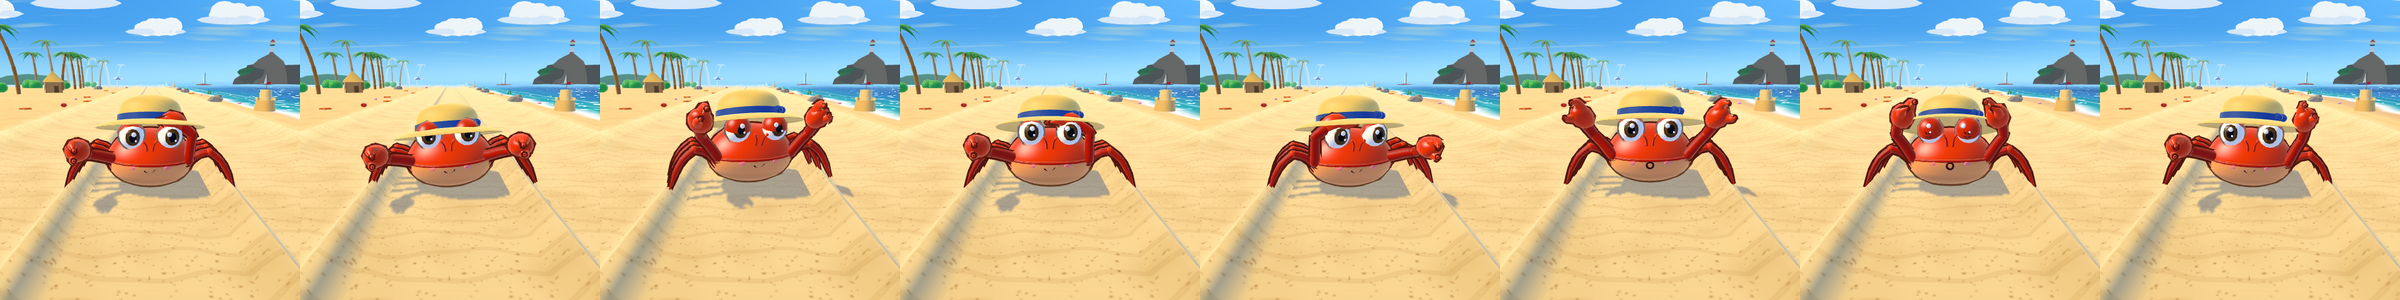
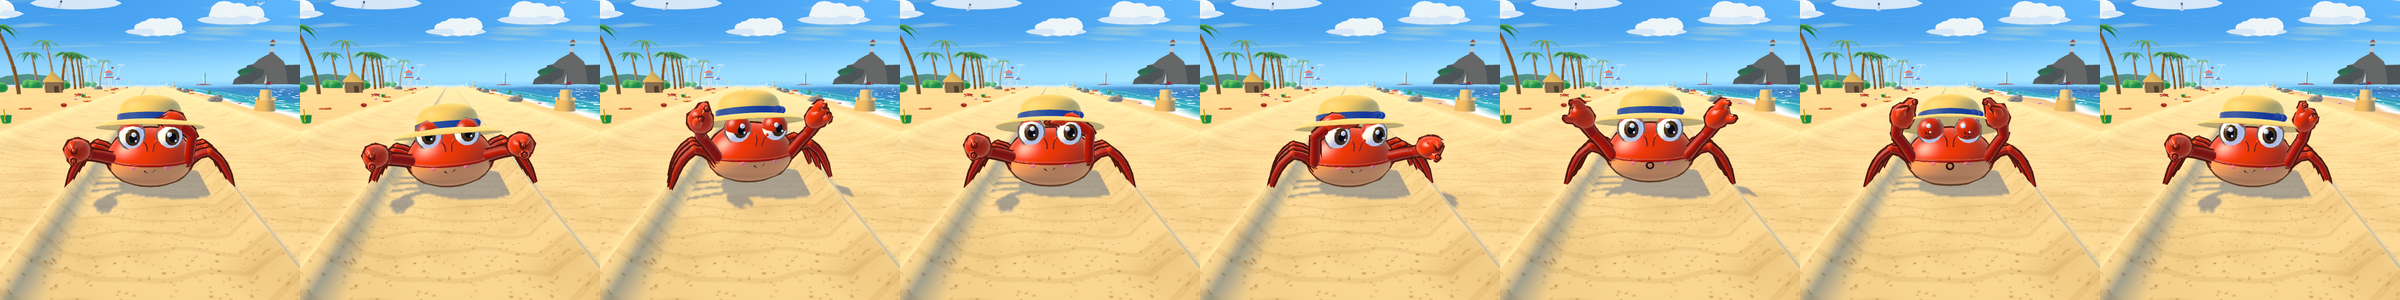
Update 2 Phase C (part 5): prop expansion
About 40% more props per zone: buckets and spades, surfboards and a
lifeguard tower on the shore; nets, benches and gulls perched on pilings
on the pier; crab burrows and starfish clusters in the cove; hammocks and
a flickering bonfire at sunset. Refreshed Phase C screenshots and strips.

Claude-Session: https://claude.ai/code/session_01NMoLfHsvJF6Y6a3sRupRr2

diff --git a/src/render/props.ts b/src/render/props.ts
@@ -455,3 +455,148 @@ export function lantern(col: number): THREE.BufferGeometry {
   b.sphere(col, 0.16, [0, 0, 0], [1, 1.2, 1], 8);
   return addWind(b.build(), () => 0.05);
 }
+
+// --------------------------------------------------------------- Update 2 prop expansion (§2.3)
+export function bucketSpade(col: number): THREE.BufferGeometry {
+  const b = new GeoBuilder();
+  b.lathe(col, [[0.16, 0], [0.22, 0.3], [0.2, 0.3], [0.14, 0.02], [0, 0.02]], 12);
+  b.torus(new THREE.Color(col).multiplyScalar(0.8).getHex(), 0.2, 0.02, [0, 0.28, 0], [Math.PI / 2, 0, 0], 12);
+  b.torus(0xf2f2f2, 0.19, 0.012, [0, 0.33, 0], [0, 0, 0], 10, [1, 1, 1]);
+  // spade stuck in the sand beside it
+  b.cyl(0xffc933, 0.025, 0.025, 0.55, [0.38, 0.32, 0.05], [0, 0, -0.25], 5);
+  b.box(0xffc933, 0.2, 0.22, 0.03, [0.32, 0.06, 0.05], [0, 0, -0.25]);
+  return b.build();
+}
+
+export function surfboards(): THREE.BufferGeometry {
+  const b = new GeoBuilder();
+  const cols = [0xff7a1a, 0x3fd6d0, 0xffd23a];
+  for (let i = 0; i < 3; i++) {
+    const c = cols[i] as number;
+    b.sphere(c, 0.32, [i * 0.42 - 0.42, 0.95, i * 0.08], [0.6, 3.2, 0.12], 10, [0.15 - i * 0.05, 0, (i - 1) * 0.12]).paint((x, y, z, cc) => {
+      if (Math.abs(x - (i * 0.42 - 0.42)) < 0.03) cc.set(0xffffff);
+    });
+  }
+  return b.build();
+}
+
+export function lifeguardTower(): THREE.BufferGeometry {
+  const b = new GeoBuilder();
+  const wood = 0xf4f0e6;
+  for (const x of [-0.8, 0.8]) for (const z of [-0.7, 0.7]) b.cyl(wood, 0.07, 0.08, 2.4, [x * 0.8, 1.2, z * 0.8], [z * 0.08, 0, -x * 0.08], 6);
+  b.box(0xe53935, 2.0, 0.12, 1.8, [0, 2.45, 0]);
+  b.box(0xfff4dc, 1.7, 1.0, 1.5, [0, 3.0, 0]);
+  b.box(0x8fd0f7, 1.2, 0.45, 0.04, [0, 3.15, 0.76]);
+  b.cone(0xe53935, 1.4, 0.6, [0, 3.8, 0], [0, Math.PI / 4, 0], 4);
+  // ladder + red cross flag
+  for (let i = 0; i < 6; i++) b.box(wood, 0.6, 0.05, 0.08, [0, 0.3 + i * 0.36, 1.25 - i * 0.07]);
+  b.cyl(0x8a8a90, 0.02, 0.02, 1.0, [0.8, 4.3, -0.6], [0, 0, 0], 4);
+  b.box(0xe53935, 0.5, 0.3, 0.02, [1.06, 4.65, -0.6]);
+  return addWind(b.build(), (x, y) => (y > 4.45 && x > 0.82 ? -0.04 : 0));
+}
+
+export function fishingNet(): THREE.BufferGeometry {
+  const b = new GeoBuilder();
+  // a net draped over a post rail with a few floats
+  for (let i = 0; i <= 6; i++) {
+    const x = -1 + i / 3;
+    b.tube(0x6f8a7a, [[x, 1.1, 0], [x + 0.05, 0.6, 0.06], [x, 0.1, 0.02]], 0.012, 3, 4, false);
+  }
+  for (let j = 0; j < 4; j++) {
+    const y = 1.05 - j * 0.28;
+    b.tube(0x6f8a7a, [[-1, y, 0.02], [0, y - 0.08, 0.07], [1, y, 0.02]], 0.012, 3, 6, false);
+  }
+  for (const x of [-0.7, 0.1, 0.8]) b.sphere(0xffc933, 0.07, [x, 1.12, 0.03], [1, 1, 1], 6);
+  return addWind(b.build(), (x, y) => (y < 0.9 ? -0.015 * (1 - y) : 0));
+}
+
+export function bench(): THREE.BufferGeometry {
+  const b = new GeoBuilder();
+  for (let i = 0; i < 3; i++) b.box(0xb98550, 1.8, 0.06, 0.14, [0, 0.48, -0.15 + i * 0.16]);
+  for (let i = 0; i < 2; i++) b.box(0xb98550, 1.8, 0.14, 0.05, [0, 0.75 + i * 0.18, -0.3]);
+  for (const x of [-0.75, 0.75]) {
+    b.box(0x2c3e66, 0.06, 0.48, 0.42, [x, 0.24, 0]);
+    b.box(0x2c3e66, 0.06, 0.5, 0.05, [x, 0.75, -0.3]);
+  }
+  return b.build();
+}
+
+export function postGull(): THREE.BufferGeometry {
+  const b = new GeoBuilder();
+  b.cyl(0x8a5a2b, 0.13, 0.14, 1.4, [0, 0.7, 0], [0, 0, 0], 7);
+  b.sphere(0xfafafa, 0.22, [0, 1.62, 0], [0.9, 0.85, 1.3], 8).paint((x, y, z, c) => {
+    if (y > 1.7 && z < 0.05) c.set(0xb4bec8);
+  });
+  b.sphere(0xfafafa, 0.13, [0, 1.86, 0.16], [1, 1, 1], 8);
+  b.cone(0xffb21f, 0.04, 0.16, [0, 1.85, 0.32], [Math.PI / 2, 0, 0], 5);
+  b.sphere(0x111111, 0.02, [0.06, 1.9, 0.26], [1, 1, 1], 4);
+  b.sphere(0x111111, 0.02, [-0.06, 1.9, 0.26], [1, 1, 1], 4);
+  b.box(0x2a2f38, 0.14, 0.04, 0.2, [0, 1.62, -0.32], [0.4, 0, 0]);
+  return b.build();
+}
+
+export function crabBurrow(seed: number): THREE.BufferGeometry {
+  const r = prng(seed);
+  const b = new GeoBuilder();
+  b.lathe(0xd8b98a, [[0.32, 0], [0.24, 0.08], [0.14, 0.06], [0.1, -0.02]], 10);
+  b.cyl(0x3a2a18, 0.11, 0.11, 0.02, [0, 0.0, 0], [0, 0, 0], 10);
+  for (let i = 0; i < 6; i++) {
+    const a = r() * Math.PI * 2;
+    const d = 0.4 + r() * 0.5;
+    b.sphere(0xd8b98a, 0.04 + r() * 0.03, [Math.cos(a) * d, 0.02, Math.sin(a) * d], [1, 0.6, 1], 5);
+  }
+  return b.build();
+}
+
+export function starfishCluster(seed: number): THREE.BufferGeometry {
+  const r = prng(seed);
+  const b = new GeoBuilder();
+  const cols = [0xff7a3a, 0xb06ad6, 0xff5a7a, 0xffc933];
+  for (let i = 0; i < 4; i++) {
+    const g = starfish(cols[i % 4] as number);
+    const s = 0.6 + r() * 0.6;
+    g.scale(s, s, s);
+    g.rotateY(r() * 6);
+    g.translate((r() - 0.5) * 1.2, 0, (r() - 0.5) * 1.2);
+    b.raw(g);
+  }
+  return b.build();
+}
+
+export function hammock(): THREE.BufferGeometry {
+  const b = new GeoBuilder();
+  // two posts and a sagging striped hammock between them
+  for (const x of [-1.6, 1.6]) b.cyl(0x6b4423, 0.09, 0.11, 2.0, [x, 1.0, 0], [0, 0, x * 0.03], 6);
+  const n = 10;
+  for (let i = 0; i < n; i++) {
+    const t0 = i / n;
+    const t1 = (i + 1) / n;
+    const y = (t: number): number => 1.45 - Math.sin(t * Math.PI) * 0.6;
+    const x0 = -1.5 + t0 * 3;
+    const x1 = -1.5 + t1 * 3;
+    b.box(i % 2 ? 0xff7a1a : 0xfff4dc, Math.hypot(x1 - x0, y(t1) - y(t0)) + 0.02, 0.04, 0.8, [(x0 + x1) / 2, (y(t0) + y(t1)) / 2, 0], [0, 0, Math.atan2(y(t1) - y(t0), x1 - x0)]);
+  }
+  return addWind(b.build(), (x, y) => (y < 1.4 && Math.abs(x) < 1.4 ? 0.04 * (1 - Math.abs(x) / 1.4) : 0));
+}
+
+export function bonfireLogs(): THREE.BufferGeometry {
+  const b = new GeoBuilder();
+  for (let i = 0; i < 5; i++) {
+    const a = (i / 5) * Math.PI * 2;
+    b.tube(0x6b4423, [[Math.cos(a) * 0.5, 0.05, Math.sin(a) * 0.5], [Math.cos(a) * 0.08, 0.45, Math.sin(a) * 0.08]], 0.07, 5, 2, true);
+  }
+  for (let i = 0; i < 9; i++) {
+    const a = (i / 9) * Math.PI * 2;
+    b.ico(0x8a8278, 0.13, [Math.cos(a) * 0.7, 0.06, Math.sin(a) * 0.7], [1, 0.6, 1], 0, 0.2, 40 + i);
+  }
+  return b.build();
+}
+
+/** unlit bonfire flames (glow material) */
+export function bonfireFlame(): THREE.BufferGeometry {
+  const b = new GeoBuilder();
+  b.cone(0xff5a1a, 0.4, 0.9, [0, 0.6, 0], [0, 0, 0], 7);
+  b.cone(0xffa020, 0.28, 0.7, [0.06, 0.55, 0.05], [0, 0.5, 0], 6);
+  b.cone(0xffe14a, 0.15, 0.45, [-0.02, 0.45, 0.04], [0, 1.0, 0], 5);
+  return addWind(b.build(), (x, y) => -Math.max(0, y - 0.3) * 0.22);
+}

diff --git a/src/render/scenery.ts b/src/render/scenery.ts
@@ -177,6 +177,17 @@ class PropKit {
   torch = P.tikiTorch();
   flame = P.flame();
   lanterns = [0xffd23a, 0xff7aa2, 0x7ad0ff].map((c) => P.lantern(c));
+  buckets = [0xe53935, 0x2f6fd6, 0x3dae4f].map((c) => P.bucketSpade(c));
+  surfboards = P.surfboards();
+  lifeguard = P.lifeguardTower();
+  net = P.fishingNet();
+  bench = P.bench();
+  postGull = P.postGull();
+  burrows = [0, 1].map((i) => P.crabBurrow(60 + i));
+  starClusters = [0, 1].map((i) => P.starfishCluster(65 + i));
+  hammock = P.hammock();
+  bonfire = P.bonfireLogs();
+  bonfireFlame = P.bonfireFlame();
   constructor() {
     const b = new GeoBuilder();
     b.cyl(0xa8743f, 0.18, 0.22, 1.6, [0, 0.18, 0], [0, 0, Math.PI / 2], 8);
@@ -288,6 +299,10 @@ export class Scenery {
       }
       pl.add(K.boats[(v + 1) % 3] as THREE.BufferGeometry, 12 + r() * 10, rz(), r() * 3, 1.2, -0.2);
       pl.add(K.buoy, 7 + r() * 4, rz(), 0, 1, -0.05);
+      // nets draped on the rails, benches and gulls perched on pilings
+      if (v % 2 === 0) pl.add(K.net, hw + 0.05, -14 - r() * 6, Math.PI / 2, 1, 0, true);
+      if (v !== 2) pl.add(K.bench, -(hw + 0.6), -20, Math.PI / 2, 1, 0, true);
+      pl.add(K.postGull, (r() < 0.5 ? -1 : 1) * (hw + 1.4), rz(), r() * 6, 1, -0.3);
       pl.add(K.buoy, -7 - r() * 4, rz(), 0, 1, -0.05);
       // bunting between lamps
       if (v % 2 === 1) {
@@ -342,6 +357,15 @@ export class Scenery {
         if (r() < 0.45) pl.add(K.miniCastle, 5.2 + r() * 1.5, rz(), r() * 6);
         for (let i = 0; i < 2; i++) pl.add(r() < 0.5 ? K.starfish : K.pinkShell, 4.5 + r() * 2.5, rz(), r() * 6);
         if (r() < 0.4) pl.add(K.seaweed, 7.0 + r(), rz(), r() * 6);
+        // Update 2 props: sand toys, surfboards, a lifeguard tower; hammocks and a bonfire at dusk
+        if (r() < 0.55) pl.add(K.buckets[Math.floor(r() * 3)] as THREE.BufferGeometry, -4.9 - r() * 2.5, rz(), r() * 6);
+        if (r() < 0.5) pl.add(K.surfboards, -6.5 - r() * 3, rz(), 0.3 + r() * 0.6);
+        if (!dusk && v === 2) pl.add(K.lifeguard, -9.5, -14, 0.3, 1, 0, true);
+        if (dusk && (v === 0 || v === 3)) pl.add(K.hammock, -10.5, rz(4, 20), 0.2 + r() * 0.4, 1, 0, true);
+        if (dusk && v === 1) {
+          pl.add(K.bonfire, -7.4, -10, r() * 6, 1, 0, true);
+          pl.addGlow(K.bonfireFlame, -7.4, -10);
+        }
         if (dusk) {
           for (const s of [-1, 1]) {
             for (const z of [-4, -16.5]) {
@@ -365,6 +389,8 @@ export class Scenery {
         for (let i = 0; i < 3; i++) pl.add(r() < 0.5 ? K.starfish : K.starfishPurple, (r() < 0.5 ? -1 : 1) * (4.6 + r() * 2.5), rz(), r() * 6);
         if (r() < 0.6) pl.add(K.urchins, -5 - r() * 2, rz(), r() * 6, 0.6);
         pl.add(K.seaweed, 6.4, rz(), r() * 6);
+        for (let i = 0; i < 2; i++) pl.add(K.burrows[Math.floor(r() * 2)] as THREE.BufferGeometry, (r() < 0.6 ? -1 : 1) * (4.7 + r() * 2.2), rz(), r() * 6);
+        if (r() < 0.6) pl.add(K.starClusters[Math.floor(r() * 2)] as THREE.BufferGeometry, -5.5 - r() * 3, rz(), r() * 6);
       }
     }
 
